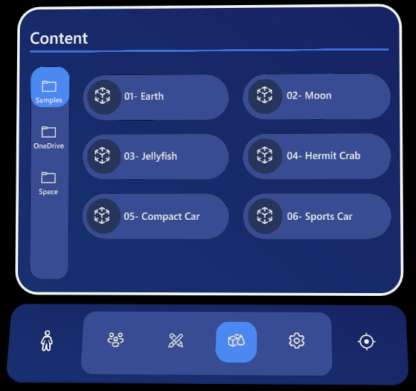
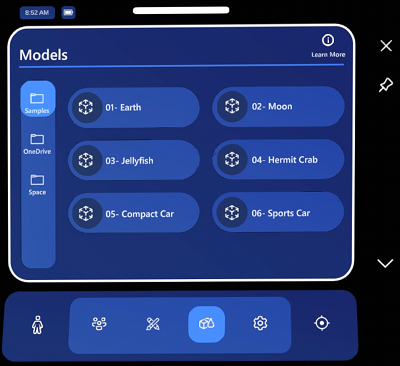
adding image to spaces

diff --git a/mesh/mesh-app/use-mesh.md b/mesh/mesh-app/use-mesh.md
@@ -4,7 +4,7 @@ description: All aspects of using the Microsoft Mesh App are covered
 ms.prod: mixed-reality
 author: qianw211
 ms.author: v-qianwen
-ms.date: 04/09/2021
+ms.date: 04/23/2021
 ms.topic: article
 keywords: mixed reality, microsoft mesh, documentation, guides, features, holograms, spaces
 ---
@@ -114,9 +114,9 @@ To move between spaces:
 
 ## Import content
 
-You can add 3D objects to any space. You can then pinch an object to grab, move, rotate, and scale it. In a collaborative space, all users who are a member of the space can add, manipulate, annotate, and delete any objects.
+You can add 3D objects and 2D image files to any space. You can then pinch an object to grab, move, rotate, and scale it. In a collaborative space, all users who are a member of the space can add, manipulate, annotate, and delete any objects.
 
-To work with 3D content, open the Taskbar from the Hand Menu, and choose the Content icon.
+To work with 3D content or image files, open the Taskbar from the Hand Menu, and choose the Content icon.
 
 ![The content icon](\media\content-pane.png)
 
@@ -127,7 +127,9 @@ In the Content pane, there are 3 places from which you can pull content into a s
 - **Space**: This is shared content that either you or another member added to the current space.
 
 > [!NOTE]
-> Only .glb files are supported at this time.
+> For 3D content, only .glb files are supported at this time.
+
+The following 2D image files are now supported: .png, .gif, .ico, .bmp, .tiff, .tif, .jpeg, .jpe, and .jpg.  For a .gif file, only the first frame will be loaded.
 
 ### Import user content
 

diff --git a/mesh/whats-new.md b/mesh/whats-new.md
@@ -1,0 +1,27 @@
+---
+title: What's new highlights
+description: What's new in the Mesh App
+ms.prod: mixed-reality
+author: qianw211
+ms.author: v-qianwen
+ms.date: 04/23/2021
+ms.topic: article
+keywords: mixed reality, microsoft mesh, documentation, guides, features, holograms, spaces
+---
+
+# What's new in the Mesh App
+
+See highlights of what's new in the recent versions of the Mesh App.
+
+## Release notes
+
+| Date          | Version           | Change description  |
+| :------------ |:-------------| :----------- |
+| April 22, 2021  | Version 2104.22007.0 | This version of the Mesh app for HoloLens adds new support for [importing images](https://docs.microsoft.com/mesh/mesh-app/use-mesh#import-content) from your OneDrive account into spaces, in addition to various bug fixes and improvements. |
+
+## Next steps
+
+Get Started with the Microsoft Mesh Preview by completing the Register Interest form to stay up to date with Mesh news and announcements, trying the Mesh App on your HoloLens 2, and requesting access to Mesh-enabled AltspaceVR.
+
+   > [!div class="nextstepaction"]
+   > [Get Started with the Microsoft Mesh Preview](get-started.md)
